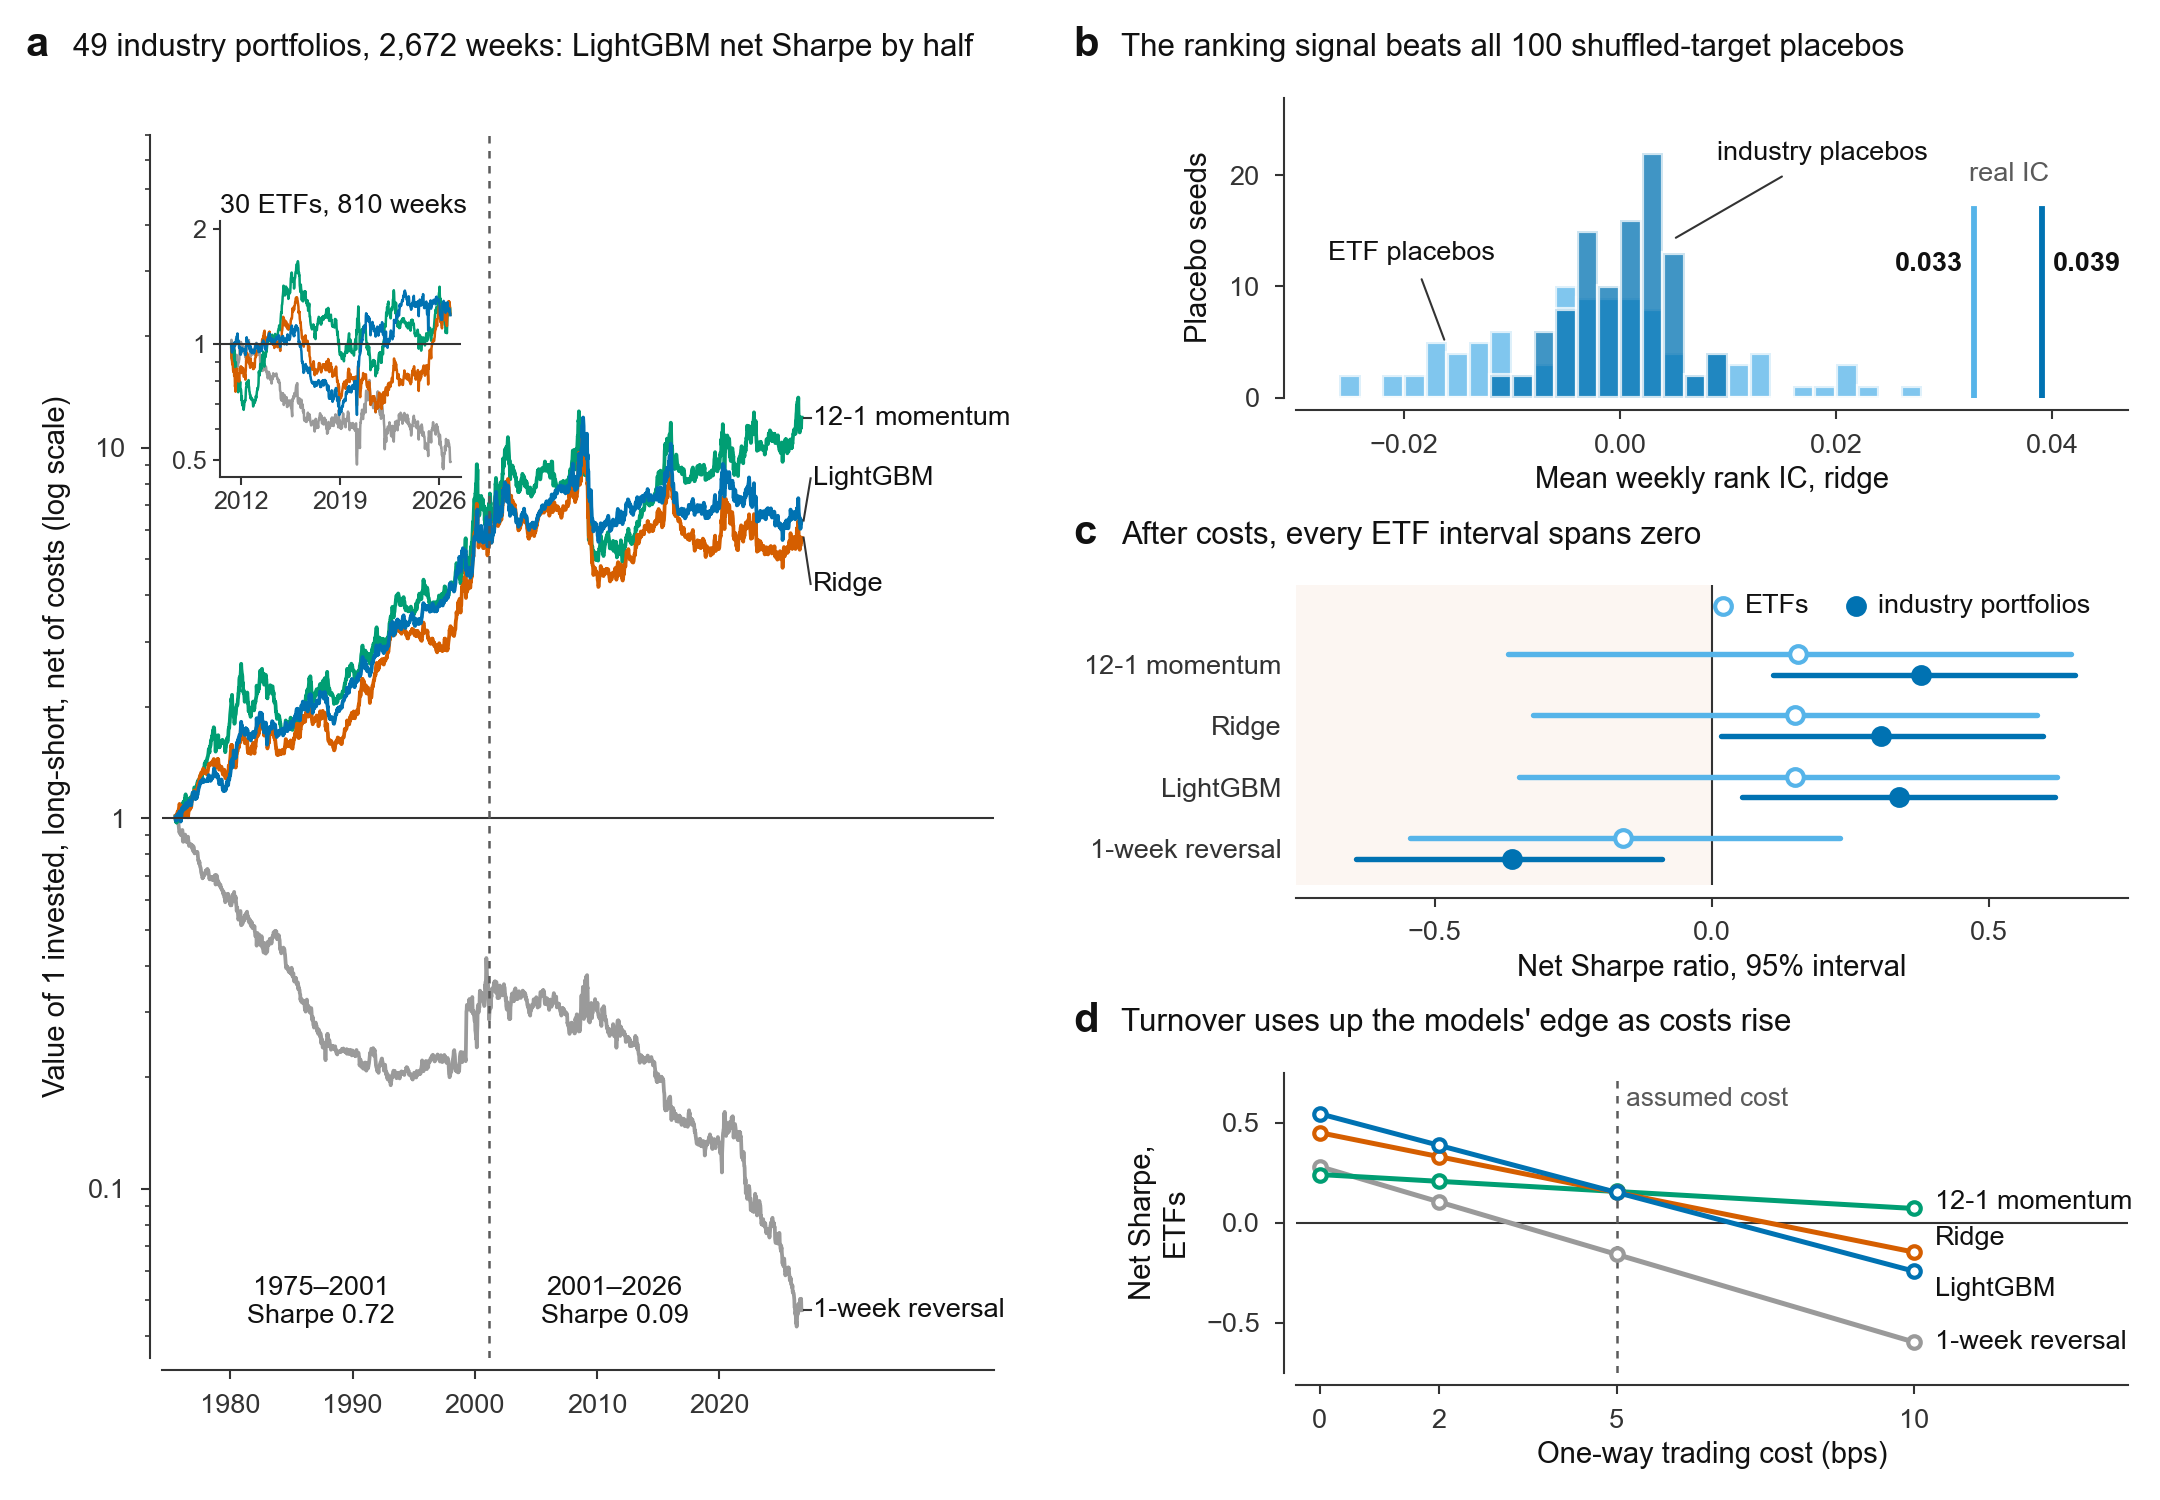
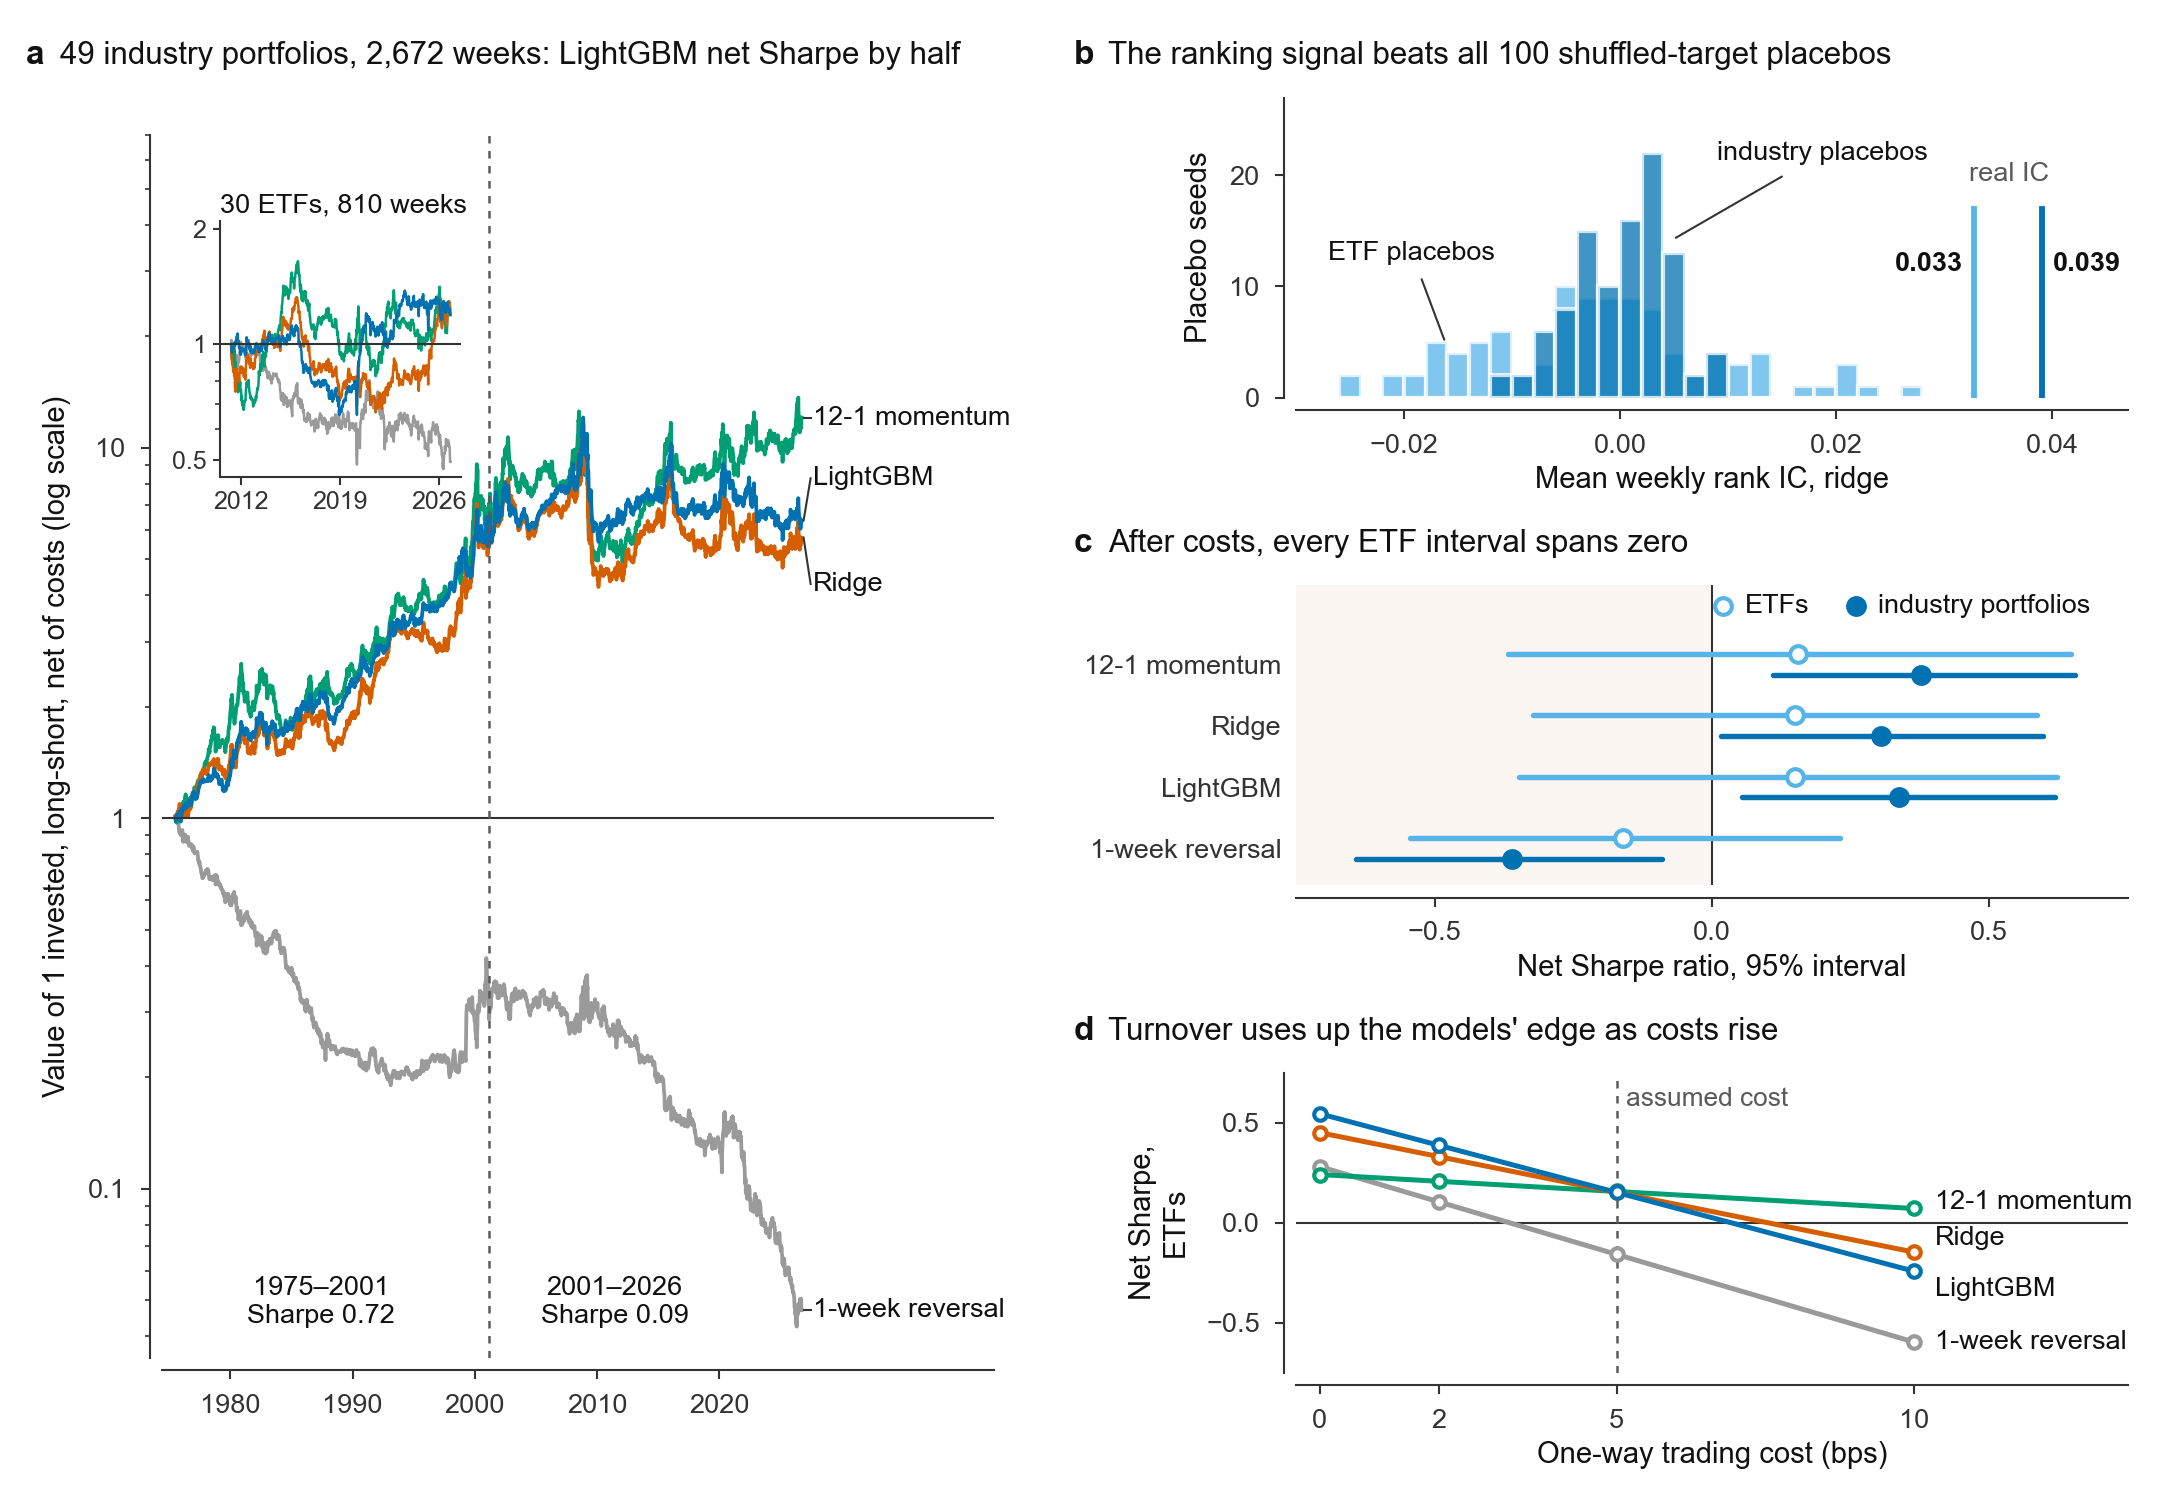
Figure 1: smaller panel letters on the title baseline

diff --git a/figures/make_figure1.py b/figures/make_figure1.py
@@ -45,8 +45,8 @@ def detach(ax):
 
 def letter(fig, ax, s, title, x=0.497):
     box = ax.get_position()
-    fig.text(x, box.y1 + 0.022, s, fontsize=10, fontweight="bold", va="bottom")
-    fig.text(x + 0.022, box.y1 + 0.0235, title, fontsize=7.5, va="bottom")
+    fig.text(x, box.y1 + 0.022, s, fontsize=8, fontweight="bold", va="baseline")
+    fig.text(x + 0.016, box.y1 + 0.022, title, fontsize=7.5, va="baseline")
 
 
 def leader(ax, xy, xytext, text, **kw):
@@ -102,9 +102,9 @@ def draw():
     a.set_xticks([dt.date(y, 1, 1) for y in (1980, 1990, 2000, 2010, 2020)], ["1980", "1990", "2000", "2010", "2020"])
     a.set_ylabel("Value of 1 invested, long-short, net of costs (log scale)")
     detach(a)
-    fig.text(0.012, 0.957, "a", fontsize=10, fontweight="bold", va="bottom")
-    fig.text(0.034, 0.9585, f'49 industry portfolios, {int(M[("french", "lgbm")]["weeks"]):,} weeks: LightGBM net Sharpe by half',
-             fontsize=7.5, va="bottom")
+    fig.text(0.012, 0.957, "a", fontsize=8, fontweight="bold", va="baseline")
+    fig.text(0.028, 0.957, f'49 industry portfolios, {int(M[("french", "lgbm")]["weeks"]):,} weeks: LightGBM net Sharpe by half',
+             fontsize=7.5, va="baseline")
 
     # inset: the same on tradable ETFs
     ins = a.inset_axes([0.07, 0.72, 0.29, 0.21])
